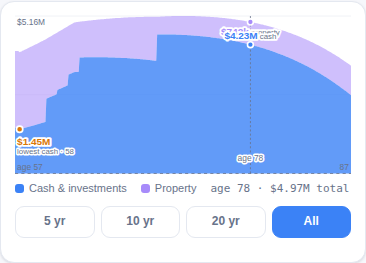
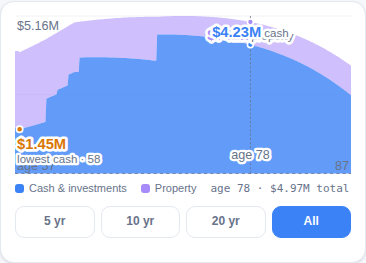
Enlarge the labels drawn on the chart by half
The values overlaid on the curve were 8-9.5px in a 320-wide viewBox, which is
small on a phone. Crosshair values, the age, the axis figures and the
lowest-cash marker are all up by 50%.

Halo stroke widths and the vertical offsets that keep the cash and property
labels apart are scaled with them, so the bigger type still clears the point it
labels and the two bands do not collide when the property band is thin.

Claude-Session: https://claude.ai/code/session_01WhJcZ9Se9VHsj4TqAnspTi

diff --git a/mobile.html b/mobile.html
@@ -1295,11 +1295,11 @@
       const col = cur.minLiq < 0 ? 'var(--bad)' : 'var(--warn)';
       const ex = past ? W - 3 : 3;
       lowMark =
-        `<line x1="${ex}" x2="${ex}" y1="${H - 34}" y2="${H - 12}" stroke="${col}" stroke-width="1.5"/>` +
-        `<text x="${past ? W - 6 : 6}" y="${H - 25}" font-size="9.5" font-weight="700" text-anchor="${past ? 'end' : 'start'}"` +
-        ` fill="${col}" paint-order="stroke" stroke="var(--card)" stroke-width="3.5" stroke-linejoin="round">${fmt(cur.minLiq)}</text>` +
+        `<line x1="${ex}" x2="${ex}" y1="${H - 40}" y2="${H - 12}" stroke="${col}" stroke-width="1.5"/>` +
+        `<text x="${past ? W - 6 : 6}" y="${H - 29}" font-size="9.5" font-weight="700" text-anchor="${past ? 'end' : 'start'}"` +
+        ` fill="${col}" paint-order="stroke" stroke="var(--card)" stroke-width="5" stroke-linejoin="round">${fmt(cur.minLiq)}</text>` +
         `<text x="${past ? W - 6 : 6}" y="${H - 16}" font-size="7.5" text-anchor="${past ? 'end' : 'start'}"` +
-        ` fill="var(--dim)" paint-order="stroke" stroke="var(--card)" stroke-width="3" stroke-linejoin="round">` +
+        ` fill="var(--dim)" paint-order="stroke" stroke="var(--card)" stroke-width="4.5" stroke-linejoin="round">` +
         `${past ? '' : '◂ '}lowest cash · ${Math.floor(lowAge)}${past ? ' ▸' : ''}</text>`;
     }
     if (ld) {
@@ -1313,13 +1313,13 @@
       const edge = 34;
       const anchor = lx < edge ? 'start' : lx > W - edge ? 'end' : 'middle';
       const tx = lx < edge ? 2 : lx > W - edge ? W - 2 : lx;
-      const ty = ly > H - 26 ? ly - 14 : ly + 15;   // sit below unless that clips the floor
+      const ty = ly > H - 34 ? ly - 19 : ly + 19;   // sit below unless that clips the floor
       lowMark =
         `<circle cx="${lx.toFixed(1)}" cy="${ly.toFixed(1)}" r="3" fill="${col}" stroke="var(--card)" stroke-width="1.6"/>` +
-        `<text x="${tx.toFixed(1)}" y="${ty.toFixed(1)}" font-size="9.5" font-weight="700" text-anchor="${anchor}"` +
-        ` fill="${col}" paint-order="stroke" stroke="var(--card)" stroke-width="3.5" stroke-linejoin="round">${fmt(low)}</text>` +
-        `<text x="${tx.toFixed(1)}" y="${(ty + 9).toFixed(1)}" font-size="7.5" text-anchor="${anchor}"` +
-        ` fill="var(--dim)" paint-order="stroke" stroke="var(--card)" stroke-width="3" stroke-linejoin="round">lowest cash · ${Math.floor(ld.age)}</text>`;
+        `<text x="${tx.toFixed(1)}" y="${ty.toFixed(1)}" font-size="14" font-weight="700" text-anchor="${anchor}"` +
+        ` fill="${col}" paint-order="stroke" stroke="var(--card)" stroke-width="5" stroke-linejoin="round">${fmt(low)}</text>` +
+        `<text x="${tx.toFixed(1)}" y="${(ty + 13).toFixed(1)}" font-size="11" text-anchor="${anchor}"` +
+        ` fill="var(--dim)" paint-order="stroke" stroke="var(--card)" stroke-width="4.5" stroke-linejoin="round">lowest cash · ${Math.floor(ld.age)}</text>`;
     }
 
     let cross = '';
@@ -1335,32 +1335,32 @@
       const anchor = cx < edge ? 'start' : cx > W - edge ? 'end' : 'middle';
       const tx = cx < edge ? 2 : cx > W - edge ? W - 2 : cx;
       const lbl = (yy, val, col, note) =>
-        `<text x="${tx.toFixed(1)}" y="${yy.toFixed(1)}" font-size="9.5" font-weight="700" text-anchor="${anchor}"` +
-        ` fill="${col}" paint-order="stroke" stroke="var(--card)" stroke-width="3.5" stroke-linejoin="round">` +
-        `${fmt(val)}<tspan font-size="7.5" font-weight="500" fill="var(--dim)"> ${note}</tspan></text>`;
+        `<text x="${tx.toFixed(1)}" y="${yy.toFixed(1)}" font-size="14" font-weight="700" text-anchor="${anchor}"` +
+        ` fill="${col}" paint-order="stroke" stroke="var(--card)" stroke-width="5" stroke-linejoin="round">` +
+        `${fmt(val)}<tspan font-size="11" font-weight="500" fill="var(--dim)"> ${note}</tspan></text>`;
       // Property reads at the top of the stack, cash at the boundary between the bands —
       // each label next to the value it describes. When the property band is too thin for
       // two labels, lift the property one clear so they never overlap.
-      const tight = yCash - yTop < 15;
-      const yProp = (yTop < 14 ? yTop + 12 : yTop - 5) - (tight ? 9 : 0);
-      const yCashLbl = yCash < 14 ? yCash + 12 : yCash - 5;
+      const tight = yCash - yTop < 21;
+      const yProp = (yTop < 19 ? yTop + 17 : yTop - 7) - (tight ? 14 : 0);
+      const yCashLbl = yCash < 19 ? yCash + 17 : yCash - 7;
       cross =
         `<line x1="${cx.toFixed(1)}" x2="${cx.toFixed(1)}" y1="0" y2="${H}" stroke="var(--dim)" stroke-width=".75" stroke-dasharray="2 2"/>` +
         `<circle cx="${cx.toFixed(1)}" cy="${yTop.toFixed(1)}" r="2.8" fill="var(--iliq)" stroke="var(--card)" stroke-width="1.5"/>` +
         `<circle cx="${cx.toFixed(1)}" cy="${yCash.toFixed(1)}" r="2.8" fill="var(--liq)" stroke="var(--card)" stroke-width="1.5"/>` +
         lbl(yProp, prop, 'var(--iliq)', 'property') +
         lbl(yCashLbl, cash, 'var(--liq)', 'cash') +
-        `<text x="${tx.toFixed(1)}" y="${(H - 12).toFixed(1)}" font-size="8" text-anchor="${anchor}"` +
-        ` fill="var(--dim)" paint-order="stroke" stroke="var(--card)" stroke-width="3" stroke-linejoin="round">age ${Math.floor(md.age)}</text>`;
+        `<text x="${tx.toFixed(1)}" y="${(H - 14).toFixed(1)}" font-size="12" text-anchor="${anchor}"` +
+        ` fill="var(--dim)" paint-order="stroke" stroke="var(--card)" stroke-width="4.5" stroke-linejoin="round">age ${Math.floor(md.age)}</text>`;
     }
     $('chart').innerHTML =
       gridY +
       `<path d="${area(d => Math.max(d.liq,0) + Math.max(d.iliq,0), d => Math.max(d.liq,0))}" fill="var(--iliq)" opacity=".55"/>` +
       `<path d="${area(d => d.liq, () => 0)}" fill="var(--liq)" opacity=".8"/>` +
       `<line x1="0" x2="${W}" y1="${zeroY}" y2="${zeroY}" stroke="var(--dim)" stroke-width=".75" stroke-dasharray="3 3"/>` +
-      `<text x="2" y="${Math.max(y(hi) + 9, 9).toFixed(1)}" font-size="8" fill="var(--dim)">${fmt(hi)}</text>` +
-      `<text x="2" y="${(H - 3).toFixed(1)}" font-size="8" fill="var(--dim)">age ${Math.floor(xs[0])}</text>` +
-      `<text x="${W - 2}" y="${(H - 3).toFixed(1)}" font-size="8" fill="var(--dim)" text-anchor="end">${Math.floor(xs[xs.length-1])}</text>` +
+      `<text x="2" y="${Math.max(y(hi) + 13, 13).toFixed(1)}" font-size="12" fill="var(--dim)">${fmt(hi)}</text>` +
+      `<text x="2" y="${(H - 3).toFixed(1)}" font-size="12" fill="var(--dim)">age ${Math.floor(xs[0])}</text>` +
+      `<text x="${W - 2}" y="${(H - 3).toFixed(1)}" font-size="12" fill="var(--dim)" text-anchor="end">${Math.floor(xs[xs.length-1])}</text>` +
       lowMark + cross;   // crosshair last so a tapped point sits above the fixed marker
   }
 
